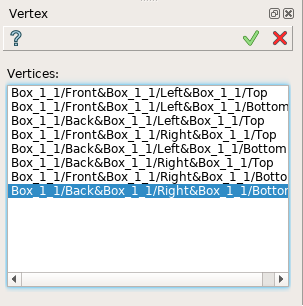
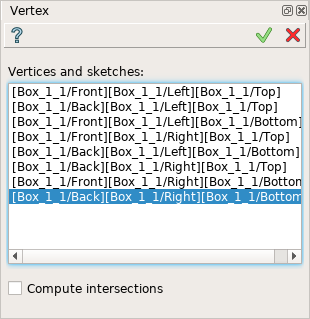
Update help pages for Vertex, Face and Shell features (issue #3102)

diff --git a/src/BuildPlugin/doc/vertexFeature.rst b/src/BuildPlugin/doc/vertexFeature.rst
@@ -18,7 +18,7 @@ The following property panel will be opened:
 .. centered::
   Create vertices
 
-Select one or several vertices in the viewer.
+Select one or several vertices in the viewer. It also allowed to select a whole sketch result in the object browser, then all start and end points of the sketch segments will be added into result. Checkbox **Compute intersections** forces to include intersection vertices of edges of the selected sketch.
 
 **Apply** button creates vertices.
 
@@ -26,10 +26,11 @@ Select one or several vertices in the viewer.
 
 **TUI Command**:
 
-.. py:function:: model.addVertex(Part_doc, Shapes)
+.. py:function:: model.addVertex(Part_doc, Shapes, doIntersect)
 
     :param part: The current part object.
     :param list: A list of shapes.
+    :param bool: Intersect edges (applicable for sketch only). False by default.
     :return: Result object.
 
 Result

diff --git a/src/BuildPlugin/doc/faceFeature.rst b/src/BuildPlugin/doc/faceFeature.rst
@@ -21,6 +21,8 @@ The following property panel will be opened:
   
 Select one or several faces in viewer. Additionally, a face can be build by a closed wire or a set of edges composing a closed wire.
 
+It also allowed to select a whole sketch result from the object browser. In this case, the smallest closed contour of the sketch will be transformed to the planar face.
+
 **Apply** button creates faces.
 
 **Cancel** button cancels the operation. 

diff --git a/src/BuildPlugin/doc/shellFeature.rst b/src/BuildPlugin/doc/shellFeature.rst
@@ -18,7 +18,7 @@ The following property panel will be opened:
 .. centered::
   Create a shell
   
-Select one or several faces in the viewer.
+Select one or several faces in the viewer. Additionally, it is allowed to select a whole sketch result from the object browser. In this case, the result shell will contain faces corresponding to all smallest closed contours of the sketch.
 
 **Apply** button creates a shell.
 
